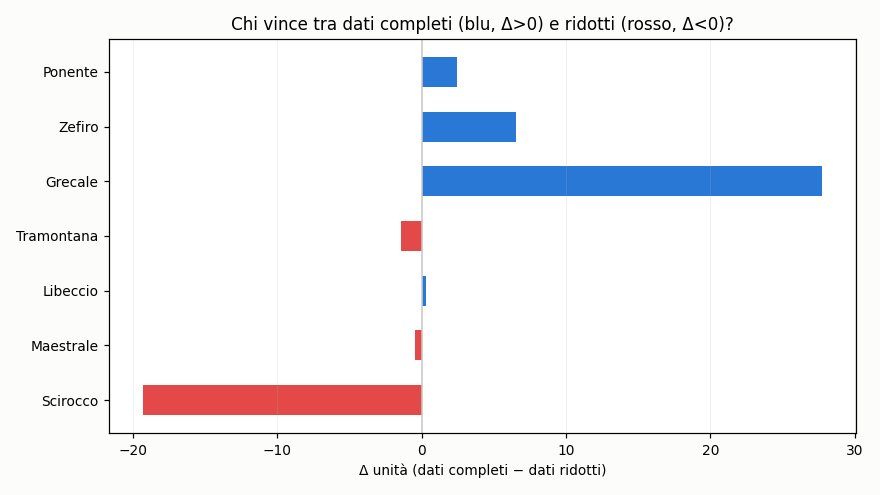
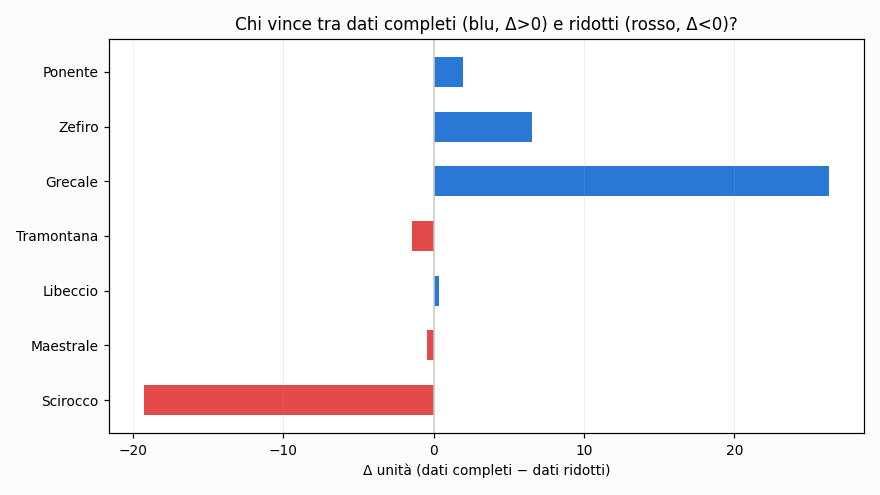
aggiornamento 2026-07-25 16:51 UTC

diff --git a/README.md b/README.md
@@ -37,9 +37,9 @@ scala in unità). Non indichiamo quale.
 
 ## Grafici
 
-![Coppie: dati completi vs ridotti](https://raw.githubusercontent.com/Kitem19/ippica-track-record/main/charts/equity_pairs.png?v=9daab2ee)
+![Coppie: dati completi vs ridotti](https://raw.githubusercontent.com/Kitem19/ippica-track-record/main/charts/equity_pairs.png?v=50f732c2)
 
-![Delta per coppia](https://raw.githubusercontent.com/Kitem19/ippica-track-record/main/charts/coppie_delta.png?v=c88a8126)
+![Delta per coppia](https://raw.githubusercontent.com/Kitem19/ippica-track-record/main/charts/coppie_delta.png?v=e8a38781)
 
 ### Come leggere i grafici
 
@@ -60,30 +60,30 @@ _Poche giornate: numeri ancora rumorosi, si conclude a fine fase (31/7)._
 - **Maestrale**: in sostanziale pareggio — troppo presto per dire
 - **Libeccio**: in sostanziale pareggio — troppo presto per dire
 - **Tramontana**: in sostanziale pareggio — troppo presto per dire
-- **Grecale**: dati completi avanti di 27,8u
+- **Grecale**: dati completi avanti di 26,3u
 - **Zefiro**: dati completi avanti di 6,5u
-- **Ponente**: dati completi avanti di 2,4u
+- **Ponente**: in sostanziale pareggio — troppo presto per dire
 
 ## Classifica (conteggio ufficiale)
 
 | Sistema | Cassa (u) | P/L (u) | Selezioni | Escluse | Stato |
 |---|---|---|---|---|---|
-| Grecale | 27,5 | +7,5 | 299 | 4 | 🟢 |
+| Grecale | 26,1 | +6,1 | 301 | 4 | 🟢 |
 | Scirocco-B | 19,2 | -0,8 | 223 | 0 | 🟢 |
-| Zefiro | 6,1 | -13,9 | 261 | 6 | ⏸ |
-| Ponente | 1,5 | -18,5 | 209 | 28 | 🟢 |
-| Tramontana-B | 1,2 | -18,8 | 323 | 10 | ⏸ |
-| Maestrale-B | 0,0 | -20,0 | 100 | 232 | 🛑 |
-| Scirocco | 0,0 | -20,1 | 80 | 240 | 🛑 |
-| Grecale-B | 0,0 | -20,2 | 137 | 171 | 🛑 |
-| Tramontana | 0,0 | -20,3 | 45 | 304 | 🛑 |
+| Zefiro | 6,1 | -13,9 | 261 | 8 | ⏸ |
+| Tramontana-B | 1,2 | -18,8 | 323 | 12 | ⏸ |
+| Ponente | 1,0 | -19,0 | 210 | 28 | 🟢 |
+| Maestrale-B | 0,0 | -20,0 | 100 | 234 | 🛑 |
+| Scirocco | 0,0 | -20,1 | 80 | 241 | 🛑 |
+| Grecale-B | 0,0 | -20,2 | 137 | 173 | 🛑 |
+| Tramontana | 0,0 | -20,3 | 45 | 305 | 🛑 |
 | Zefiro-B | 0,0 | -20,5 | 143 | 70 | 🛑 |
-| Maestrale | 0,0 | -20,5 | 104 | 252 | 🛑 |
-| Libeccio | 0,0 | -20,6 | 181 | 161 | 🛑 |
-| Libeccio-B | 0,0 | -20,9 | 119 | 177 | 🛑 |
+| Maestrale | 0,0 | -20,5 | 104 | 254 | 🛑 |
+| Libeccio | 0,0 | -20,6 | 181 | 163 | 🛑 |
+| Libeccio-B | 0,0 | -20,9 | 119 | 178 | 🛑 |
 | Ponente-B | 0,0 | -21,0 | 63 | 84 | 🛑 |
 
-_Aggiornato: 25/07 18:46_
+_Aggiornato: 25/07 18:51_
 ---
 *Nessuna delle informazioni qui pubblicate costituisce consiglio di gioco.
 Il gioco può causare dipendenza — 18+.*
